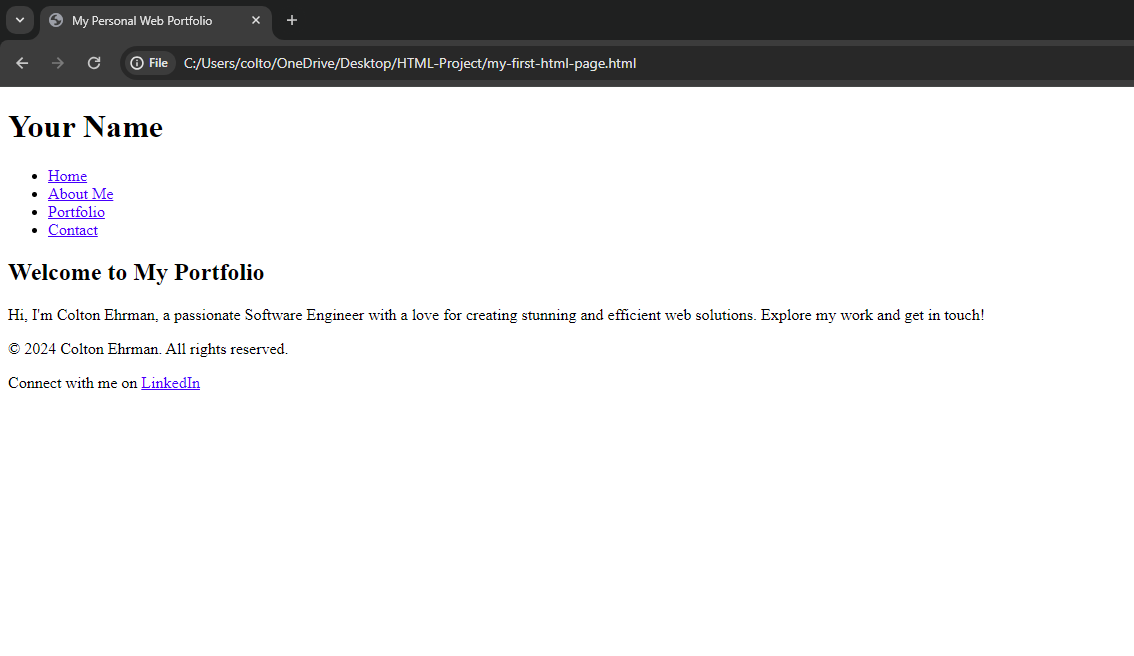
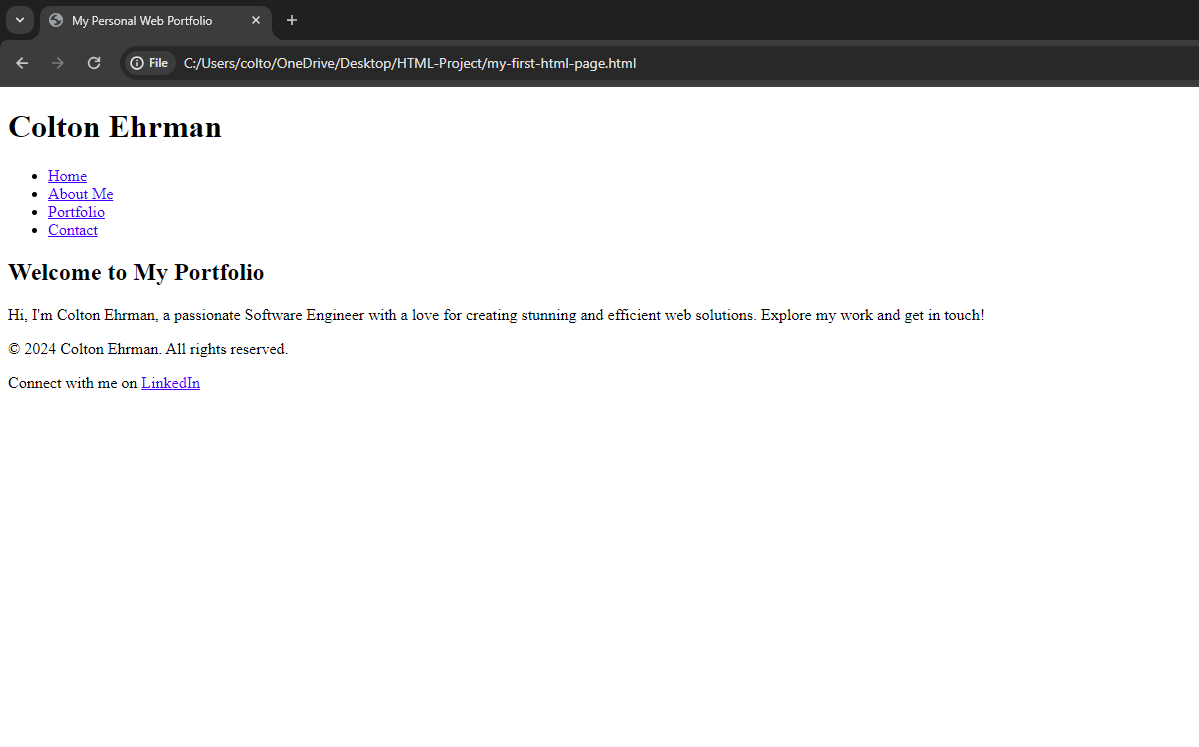
Finish Chapter 3

Changed region(s): [[0.0, 0.0, 1.0, 0.4268], [0.0, 0.4573, 0.8642, 0.5488], [0.0, 0.5793, 0.1852, 0.6098]]

diff --git a/html/chapters/3/README.md b/html/chapters/3/README.md
@@ -11,12 +11,16 @@ Welcome to Chapter 3, a pivotal moment in your journey to becoming a proficient 
   - [Creating the Header & Navigation](#creating-the-header--navigation)
     - [`<header>`](#header)
     - [`<nav>`](#nav)
-    - [`<a>`](#creating-the-header--navigation)
-    - [`<h1>`](#creating-the-header--navigation)
-    - [`<ul>`](#creating-the-header--navigation)
-    - [`<li>`](#creating-the-header--navigation)
+    - [`<a>`](#a)
+    - [`<ul>`](#ul)
+    - [`<li>`](#li)
   - [Adding a Hero Section](#adding-a-hero-section)
+    - [`<section>`](#section)
+    - [`<h1>`](#h1)
+    - [`<p>`](#p)
   - [Creating the Footer](#creating-the-footer)
+    - [`<footer>`](#footer)
+    - [`&copy;`](#copy)
 
 ## The Project at a Glance
 
@@ -51,13 +55,17 @@ The new `<title>` tag was introduced and is a special child of the `<head>` tag,
 
 The `<header>` & `<nav>` for your site's name and navigation. A compelling `<section>` for your hero area to introduce yourself. Then the `<footer>`, grounding your site with necessary information and links.
 
+_All the content we add will be nested inside the `<body>` tag._
+
 ![Foundation](./foundation-of-webpage.png)
 
 ### Creating the Header & Navigation
 
+Our header is the top of the Web page and typically includes some site navigation elements in it to easily guide the viewer.
+
 ```html
 <header>
-  <h1>Your Name</h1>
+  <h1>Colton Ehrman</h1>
   <nav>
     <ul>
       <li><a>Home</a></li>
@@ -83,31 +91,117 @@ The `<nav>` tag can be used to indicate a Websites navigation links via `<a>` ta
 
 Inside the `<nav>` we can provide clickable links with the `<a>` tag that will navigate the viewer to a different part or section of the Website.
 
+#### `<a>`
+
+The `<a>` tag is called the **anchor** tag is and is meant to _link_ to another web page, or section of a web page. It can be used an configured a couple different ways, and typically has an **href** attribute added to it. _We have not talked attributes yet, but will soon._
+
+#### `<ul>`
+
+The `<ul>` tag is called an **un-ordered list** tag is and is used when creating a bullet-list of items, sort of like a todo list. There is another type of list tag `<ol>` (aka **ordered list**) which is used when the list is ordered with something like numbers (ie: 1, 2, 3...).
+
+When using either `<ul>` or `<ol>` tags, you will pair them with child elements of `<li>` for this individual items inside the list.
+
+#### `<li>`
+
+The `<li>` tag is called a **list item** and is nested inside a `<ul>` or `<ol>` for individual list items. Each `<li>` would wrap the content of the item that you want inside the list.
+
 ### Adding a Hero Section
+
+Your first question may be, what is a "Hero" section? **Hero** is a common term used in Web design for the initial section that shows up when first viewing a Web page. The hero is what stands out and is the most prominent section of the whole page.
 
 ```html
 <section>
   <h2>Welcome to My Portfolio</h2>
-  <p>
-    Hi, I'm Colton Ehrman, a passionate Software Engineer with a love for
-    creating stunning and efficient web solutions. Explore my work and get in
-    touch!
-  </p>
+  <p>Hi, I'm Colton Ehrman, a passionate Software Engineer with a love for creating stunning and efficient web solutions. Explore my work and get in touch!</p>
 </section>
 ```
 
+#### `<section>`
+
+The `<section>` tag is meant to wrap a particular section of a Web page and used to sort of group things together. _When it comes to styling, sections are useful to add specific styles to each section, or create common styling across all sections._
+
+A good way to think about HTML is grouping things into boxes/sections and creating a hierarchical structure of parent->child elements for each area of the Web page.
+
+The `<header>` and `<footer>` tags are specific "sections" of a Web page, where-as the `<section>` is more of a generic section and sandwiched in-between the `<header>` and `<footer>` elements.
+
+Another generic tag for grouping things is the `<div>` tag, but this tag has no "semantic" value to it and is not preferred to use, and instead should work with semantic tags such as `<header>`, `<footer>`, and `<section>`.
+
+#### `<h1>`
+
+The `<h1>` tag is called **Heading One** and can be thought of as the biggest piece of text on the Web page.
+
+There are other headings as well, `<h2>`, `<h3>`, and so on all the way to `<h6>`, which is the "smallest" heading tag.
+
+Think of a heading as like a "headline" of a news article or blog.
+
+You can have a single heading (like `<h1>`) as a title, and other headings throughout the page to indicate a new section of text.
+
+#### `<p>`
+
+The `<p>` tag is a **Paragraph** of text. I think the purpose of this is pretty self-explanatory. Defer to the article metaphor used with the **Heading** tags.
+
 ### Creating the Footer
+
+Our footer is typically found at the very bottom of the Web page and can be used for a navigation, copyright statement, and social links.
 
 ```html
 <footer>
   <p>&copy; 2024 Colton Ehrman. All rights reserved.</p>
-  <p>
-    Connect with me on
-    <a>LinkedIn</a>
-  </p>
+  <p>Connect with me on <a>LinkedIn</a></p>
 </footer>
+```
+
+#### `<footer>`
+
+The `<footer>` tag is a semantic tag for wrapping the footing of a Web page.
+
+#### `&copy;`
+
+This is **not** a tag, but instead called an HTML symbol. Which are special "codes" that can be used to add something that is not a normal character such as `a` through `z`.
+
+Symbols have different codes for different reasons, but when adding a symbol to an HTML page, you want to use the **HTML code** or **HTML entity**, which is prefixed with the `&` sign *(and the `#` sign if using an entity)* and suffixed with the `;` sign.
+
+_The **code** for the same copyright symbol is `&#169;`. Which can be used interchangeably with `&copy;`. Just a matter of preference, but I prefer the **entity**._
+
+_Go [here](https://www.toptal.com/designers/htmlarrows/symbols/) to find more symbols that you can use in HTML._
+
+### Putting it all Together
+
+Now, let's put everything together into a single HTML code for the page.
+
+```html
+<!DOCTYPE html>
+<html>
+  <head>
+    <title>My Personal Web Portfolio</title>
+  </head>
+
+  <body>
+    <header>
+      <h1>Colton Ehrman</h1>
+      <nav>
+        <ul>
+          <li><a>Home</a></li>
+          <li><a>About Me</a></li>
+          <li><a>Portfolio</a></li>
+          <li><a>Contact</a></li>
+        </ul>
+      </nav>
+    </header>
+
+    <section>
+      <h2>Welcome to My Portfolio</h2>
+      <p>Hi, I'm Colton Ehrman, a passionate Software Engineer with a love for creating stunning and efficient web solutions. Explore my work and get in touch!</p>
+    </section>
+
+    <footer>
+      <p>&copy; 2024 Colton Ehrman. All rights reserved.</p>
+      <p>Connect with me on <a>LinkedIn</a></p>
+    </footer>
+  </body>
+</html>
 ```
 
 ## [Back to Chapter 2](/html/chapters/2/README.md)
 
-<!-- ## [Chapter 3](/html/chapters/3/README.md) -->
+## [Chapter 4](/html/chapters/4/README.md)
